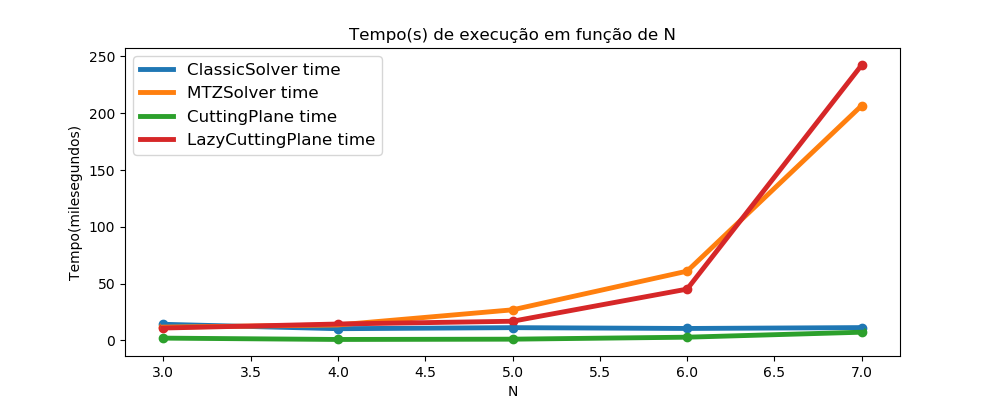
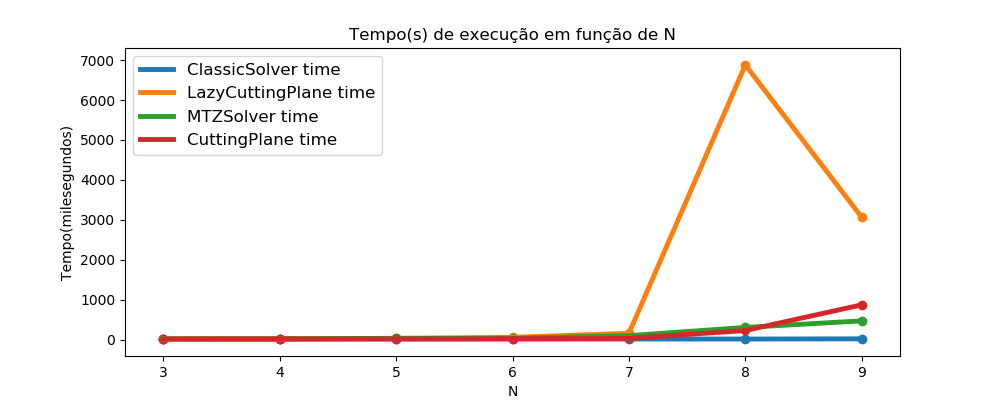
run benchmark

diff --git a/src/benchmark.py b/src/benchmark.py
@@ -23,7 +23,6 @@ def benchmark(callback, inputs):
     average_time = (t1 - t0) / len(inputs)
     return (average_time, results)
 
-@functools.lru_cache(None)
 def timeit(method):
     '''
         @Decorator timeit
@@ -49,18 +48,22 @@ def timeit(method):
 def classic_solver(test_data, **kwargs):
     my_solver = cs(test_data)
     my_solver.solve()
+    # print( my_solver.objective_value)
     return my_solver.objective_value
 
 @timeit
 def cutting_planes(test_data, **kwargs):
     my_solver = dfj(test_data)
+    my_solver.init_constraints()
     my_solver.solve()
+    # print( my_solver.objective_value)
     return my_solver.objective_value
 
 @timeit
 def miller_method(test_data, **kwargs):
     my_solver = mtz(test_data)
     my_solver.solve()
+    # print( my_solver.objective_value)
     return my_solver.objective_value
 
 @timeit
@@ -79,8 +82,6 @@ def lazy_cutting_planes(test_data, **kwargs):
         i += 1 
     return my_solver.objective_value
 
-
-@functools.lru_cache(None)
 def compare_models():
     '''
         Compara os modelos implementados (tempo) x (n cidades)
@@ -95,28 +96,26 @@ def compare_models():
     # Tempo gerado por execução
     logtime_data = {
         cs_name : [],
+        dfj2_name : [],
         mtz_name : [],
         dfj_name : [],
-        dfj2_name : []
     }
 
+    # Read file from 3 to n.txt
     i = 3
     x = []
     test_data = helper.load_data(distPath + str(i) + '.txt')
-    print(distPath + str(i) + '.txt')
-    while(test_data != []):
+    while(test_data != [] and i < 11):
         # Run methods
         classic_solver(test_data, name= cs_name, log_time= logtime_data)
-        miller_method(test_data, name= mtz_name, log_time= logtime_data)
         cutting_planes(test_data, name= dfj_name, log_time= logtime_data)
         lazy_cutting_planes(test_data, name= dfj2_name, log_time= logtime_data)
+        miller_method(test_data, name= mtz_name, log_time= logtime_data)
 
         # Load dara
         x.append(i);
         i += 1
         test_data = helper.load_data(distPath + str(i) + '.txt')
-
-    print(logtime_data)
     return [x, logtime_data]
 
 def plot_time_execution(x, logtime_data, filename='default'):
@@ -137,7 +136,7 @@ def plot_time_execution(x, logtime_data, filename='default'):
     ax.set(title="Tempo(s) de execução em função de N", xlabel="N", ylabel="Tempo(milesegundos)");
     ax.legend(loc="best", fontsize='large');
 
-    plt.savefig(plotsPath + filename, transparent=True)
+    plt.savefig(plotsPath + filename, transparent=False)
 
 x, logtime_data = compare_models()
-plot_time_execution(x=x, logtime_data=logtime_data)
+plot_time_execution(x=x, logtime_data=logtime_data, filename='2')

diff --git a/src/models/lazy_cutting_plane.py b/src/models/lazy_cutting_plane.py
@@ -14,14 +14,11 @@ class LazyCuttingPlane(ClassicSolver):
     def add_res(self, n):
         # Auxiliary array of cities [0, ..., n]
         next_node = list(range(0, self.n_nodes))
-
-        # For all sub-sets() less than the number of cities
         
         # For all paths, check sub-cicle of length i
         for j in range(0, self.n_nodes):
             initial = next_node.pop(0)
             self.all_sub_cycles([], initial, initial, 1, n, next_node.copy())
-            next_node.append(initial)
 
     def all_sub_cycles(self, acc, initial, actual, nivel, length_cycle, next_node):
         '''
@@ -96,7 +93,10 @@ if __name__ == '__main__':
                     [1, 9, 8, 2, -1]]
     
     my_solver = LazyCuttingPlane(test_data)
-    
+    if(self.n_nodes > 3):
+        my_solver.add_res(2);
+        my_solver.add_res(3);
+
     max_cycles = 4
     i = 0
     while(i < max_cycles):

diff --git a/src/models/cutting_plane.py b/src/models/cutting_plane.py
@@ -1,11 +1,10 @@
-from __future__ import print_function
 from ortools.linear_solver import pywraplp
 from .classic_solver import ClassicSolver
 
 # Sub-tour elimination(DFJ)
 class CuttingPlane(ClassicSolver):
     def __init__(self, distance_matrix):
-        super().__init__(distance_matrix, 'INTEGER')
+        super().__init__(distance_matrix)
 
     def init_constraints(self):
         super().init_constraints()

diff --git a/src/models/mtz.py b/src/models/mtz.py
@@ -19,7 +19,7 @@ class MTZSolver(ClassicSolver):
         # Inicializate u real variable from 1, n
         self.u = {}
         for i in range(self.n_nodes):
-            self.u[i] = self.solver.NumVar(1, self.n_nodes-1, '')
+            self.u[i] = self.solver.NumVar(1, self.n_nodes, '')
 
     def init_constraints(self):
         super().init_constraints()
